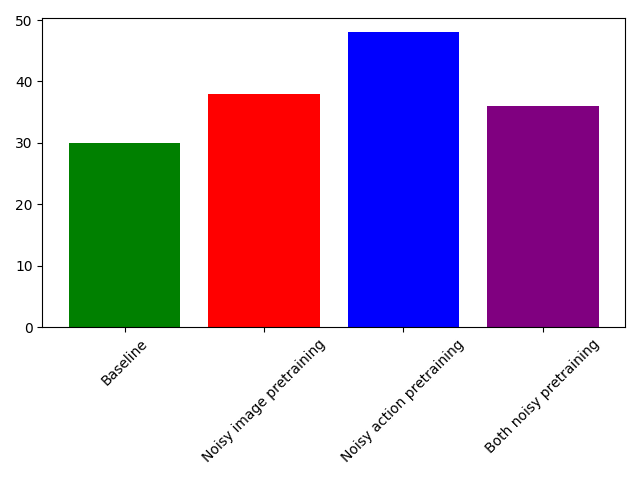
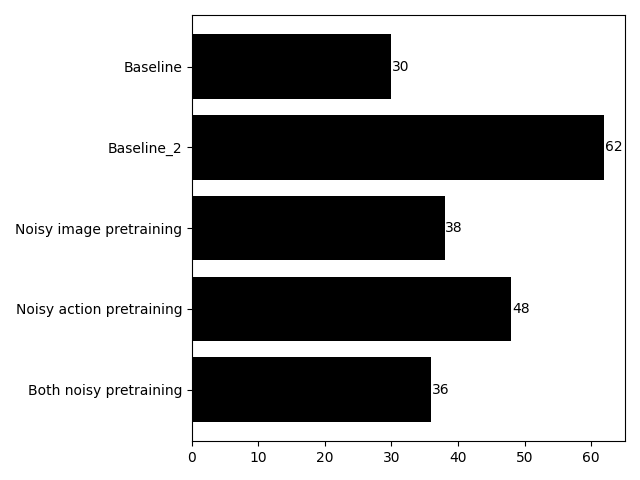
250829_some_more_exp

diff --git a/imitate_episodes.py b/imitate_episodes.py
@@ -97,8 +97,18 @@ def main(args):
     }
 
     if is_eval:
-        ckpt_names = [f'policy_best.ckpt' 
-                      #f'policy_epoch_19500_seed_0.ckpt.ckpt'
+        ckpt_names = [#f'policy_best.ckpt' 
+                      f'policy_epoch_9500_seed_0.ckpt'
+                      
+                      #f'policy_epoch_500_seed_0.ckpt'
+                      #f'policy_epoch_2500_seed_0.ckpt'
+                      #f'policy_epoch_5000_seed_0.ckpt'
+                      #f'policy_epoch_7500_seed_0.ckpt'
+                      #f'policy_epoch_10000_seed_0.ckpt'
+                      #f'policy_epoch_12500_seed_0.ckpt'
+                      #f'policy_epoch_15000_seed_0.ckpt'
+                      #f'policy_epoch_17500_seed_0.ckpt'
+                      #f'policy_epoch_19500_seed_0.ckpt'
                       ]
         results = []
         for ckpt_name in ckpt_names:

diff --git a/fig.py b/fig.py
@@ -1,12 +1,15 @@
 import matplotlib.pyplot as plt
 import numpy as np
 
-x = np.arange(4)
-years = ['Baseline', 'Noisy image pretraining', 'Noisy action pretraining', 'Both noisy pretraining']
-values = [30, 38, 48, 36]
-colors = ['green', 'red', 'blue', 'purple']
+x = np.arange(5)
+labels = ['Baseline', 'Baseline_2', 'Noisy image pretraining', 'Noisy action pretraining', 'Both noisy pretraining']
+values = [30, 62, 38, 48, 36]
+colors = ['black', 'black', 'black', 'black', 'black']
 
-plt.bar(x, values, color=colors)
-plt.xticks(x, years, rotation=45)
+plt.barh(x, values, color=colors)
+for i, value in enumerate(values):
+    plt.text(value + 0.1, i, str(value), va='center')
+plt.yticks(x, labels)
 plt.tight_layout()
+plt.gca().invert_yaxis()
 plt.savefig('eval_fig.png')

diff --git a/README.md b/README.md
@@ -63,12 +63,12 @@ python imitate_episodes.py --task_name sim_insertion_human --ckpt_dir ./ckpt/sim
 python imitate_episodes.py --task_name sim_insertion_human --ckpt_dir ./ckpt/sim_insertion_human_3 --policy_class ACT --kl_weight 10 --chunk_size 100 --hidden_dim 512 --batch_size 8 --dim_feedforward 3200 --num_epochs 20000 --lr 1e-5 --seed 0 --path2ckpt ./ckpt/sim_insertion_human_noisy_img/policy_last.ckpt
 
 ## example of training command in bi-stealth server
-CUDA_VISIBLE_DEVICES=0 python imitate_episodes.py --task_name sim_insertion_human --ckpt_dir ./ckpt/sim_insertion_human_0 --policy_class ACT --kl_weight 10 --chunk_size 100 --hidden_dim 512 --batch_size 8 --dim_feedforward 3200 --num_epochs 20000 --lr 1e-5 --seed 0 && CUDA_VISIBLE_DEVICES=0 python imitate_episodes.py --task_name sim_insertion_noisy_scripted --ckpt_dir ./ckpt/sim_insertion_noisy_scripted --policy_class ACT --kl_weight 10 --chunk_size 100 --hidden_dim 512 --batch_size 8 --dim_feedforward 3200 --num_epochs 10000 --lr 1e-5 --seed 0 && CUDA_VISIBLE_DEVICES=0 python imitate_episodes.py --task_name sim_insertion_human --ckpt_dir ./ckpt/sim_insertion_human_1 --policy_class ACT --kl_weight 10 --chunk_size 100 --hidden_dim 512 --batch_size 8 --dim_feedforward 3200 --num_epochs 20000 --lr 1e-5 --seed 0 --path2ckpt ./ckpt/sim_insertion_noisy_scripted/policy_last.ckpt
+CUDA_VISIBLE_DEVICES=0 python imitate_episodes.py --task_name sim_insertion_human --ckpt_dir /media/bi_admin/4tb_hdd/data/noisy-pretrained-act/archive/ckpt_sim_insertion/sim_insertion_human_0 --policy_class ACT --kl_weight 10 --chunk_size 100 --hidden_dim 512 --batch_size 8 --dim_feedforward 3200 --num_epochs 20000 --lr 1e-5 --seed 0 && CUDA_VISIBLE_DEVICES=0 python imitate_episodes.py --task_name sim_insertion_noisy_scripted --ckpt_dir /media/bi_admin/4tb_hdd/data/noisy-pretrained-act/archive/ckpt_sim_insertion/sim_insertion_noisy_scripted --policy_class ACT --kl_weight 10 --chunk_size 100 --hidden_dim 512 --batch_size 8 --dim_feedforward 3200 --num_epochs 10000 --lr 1e-5 --seed 0 && CUDA_VISIBLE_DEVICES=0 python imitate_episodes.py --task_name sim_insertion_human --ckpt_dir /media/bi_admin/4tb_hdd/data/noisy-pretrained-act/archive/ckpt_sim_insertion/sim_insertion_human_1 --policy_class ACT --kl_weight 10 --chunk_size 100 --hidden_dim 512 --batch_size 8 --dim_feedforward 3200 --num_epochs 20000 --lr 1e-5 --seed 0 --path2ckpt /media/bi_admin/4tb_hdd/data/noisy-pretrained-act/archive/ckpt_sim_insertion/sim_insertion_noisy_scripted/policy_last.ckpt
 
-CUDA_VISIBLE_DEVICES=1 python imitate_episodes.py --task_name sim_insertion_noisy_scripted --ckpt_dir ./ckpt/sim_insertion_noisy_scripted --policy_class ACT --kl_weight 10 --chunk_size 100 --hidden_dim 512 --batch_size 8 --dim_feedforward 3200 --num_epochs 10000 --lr 1e-5 --seed 0 --noisy_img True && CUDA_VISIBLE_DEVICES=1 python imitate_episodes.py --task_name sim_insertion_human --ckpt_dir ./ckpt/sim_insertion_human_2 --policy_class ACT --kl_weight 10 --chunk_size 100 --hidden_dim 512 --batch_size 8 --dim_feedforward 3200 --num_epochs 20000 --lr 1e-5 --seed 0 --path2ckpt ./ckpt/sim_insertion_noisy_scripted_noisy_img/policy_last.ckpt && CUDA_VISIBLE_DEVICES=1 python imitate_episodes.py --task_name sim_insertion_human --ckpt_dir ./ckpt/sim_insertion_human --policy_class ACT --kl_weight 10 --chunk_size 100 --hidden_dim 512 --batch_size 8 --dim_feedforward 3200 --num_epochs 10000 --lr 1e-5 --seed 0 --noisy_img True && CUDA_VISIBLE_DEVICES=1 python imitate_episodes.py --task_name sim_insertion_human --ckpt_dir ./ckpt/sim_insertion_human_3 --policy_class ACT --kl_weight 10 --chunk_size 100 --hidden_dim 512 --batch_size 8 --dim_feedforward 3200 --num_epochs 20000 --lr 1e-5 --seed 0 --path2ckpt ./ckpt/sim_insertion_human_noisy_img/policy_last.ckpt
+CUDA_VISIBLE_DEVICES=1 python imitate_episodes.py --task_name sim_insertion_noisy_scripted --ckpt_dir /media/bi_admin/4tb_hdd/data/noisy-pretrained-act/archive/ckpt_sim_insertion/sim_insertion_noisy_scripted --policy_class ACT --kl_weight 10 --chunk_size 100 --hidden_dim 512 --batch_size 8 --dim_feedforward 3200 --num_epochs 10000 --lr 1e-5 --seed 0 --noisy_img True && CUDA_VISIBLE_DEVICES=1 python imitate_episodes.py --task_name sim_insertion_human --ckpt_dir /media/bi_admin/4tb_hdd/data/noisy-pretrained-act/archive/ckpt_sim_insertion/sim_insertion_human_2 --policy_class ACT --kl_weight 10 --chunk_size 100 --hidden_dim 512 --batch_size 8 --dim_feedforward 3200 --num_epochs 20000 --lr 1e-5 --seed 0 --path2ckpt /media/bi_admin/4tb_hdd/data/noisy-pretrained-act/archive/ckpt_sim_insertion/sim_insertion_noisy_scripted_noisy_img/policy_last.ckpt && CUDA_VISIBLE_DEVICES=1 python imitate_episodes.py --task_name sim_insertion_human --ckpt_dir /media/bi_admin/4tb_hdd/data/noisy-pretrained-act/archive/ckpt_sim_insertion/sim_insertion_human --policy_class ACT --kl_weight 10 --chunk_size 100 --hidden_dim 512 --batch_size 8 --dim_feedforward 3200 --num_epochs 10000 --lr 1e-5 --seed 0 --noisy_img True && CUDA_VISIBLE_DEVICES=1 python imitate_episodes.py --task_name sim_insertion_human --ckpt_dir /media/bi_admin/4tb_hdd/data/noisy-pretrained-act/archive/ckpt_sim_insertion/sim_insertion_human_3 --policy_class ACT --kl_weight 10 --chunk_size 100 --hidden_dim 512 --batch_size 8 --dim_feedforward 3200 --num_epochs 20000 --lr 1e-5 --seed 0 --path2ckpt /media/bi_admin/4tb_hdd/data/noisy-pretrained-act/archive/ckpt_sim_insertion/sim_insertion_human_noisy_img/policy_last.ckpt
 
 # evaluation
-python3 imitate_episodes.py --task_name sim_transfer_cube_human --ckpt_dir ./ckpt/sim_transfer_cube_human_0 --policy_class ACT --kl_weight 10 --chunk_size 100 --hidden_dim 512 --batch_size 8 --dim_feedforward 3200 --num_epochs 2000 --lr 1e-5 --seed 0 --eval
+python3 imitate_episodes.py --task_name sim_insertion_human --ckpt_dir /media/bi_admin/4tb_hdd/data/noisy-pretrained-act/archive/ckpt_sim_insertion/sim_insertion_human_0 --policy_class ACT --kl_weight 10 --chunk_size 100 --hidden_dim 512 --batch_size 8 --dim_feedforward 3200 --num_epochs 2000 --lr 1e-5 --seed 0 --eval
 
 
 ```
